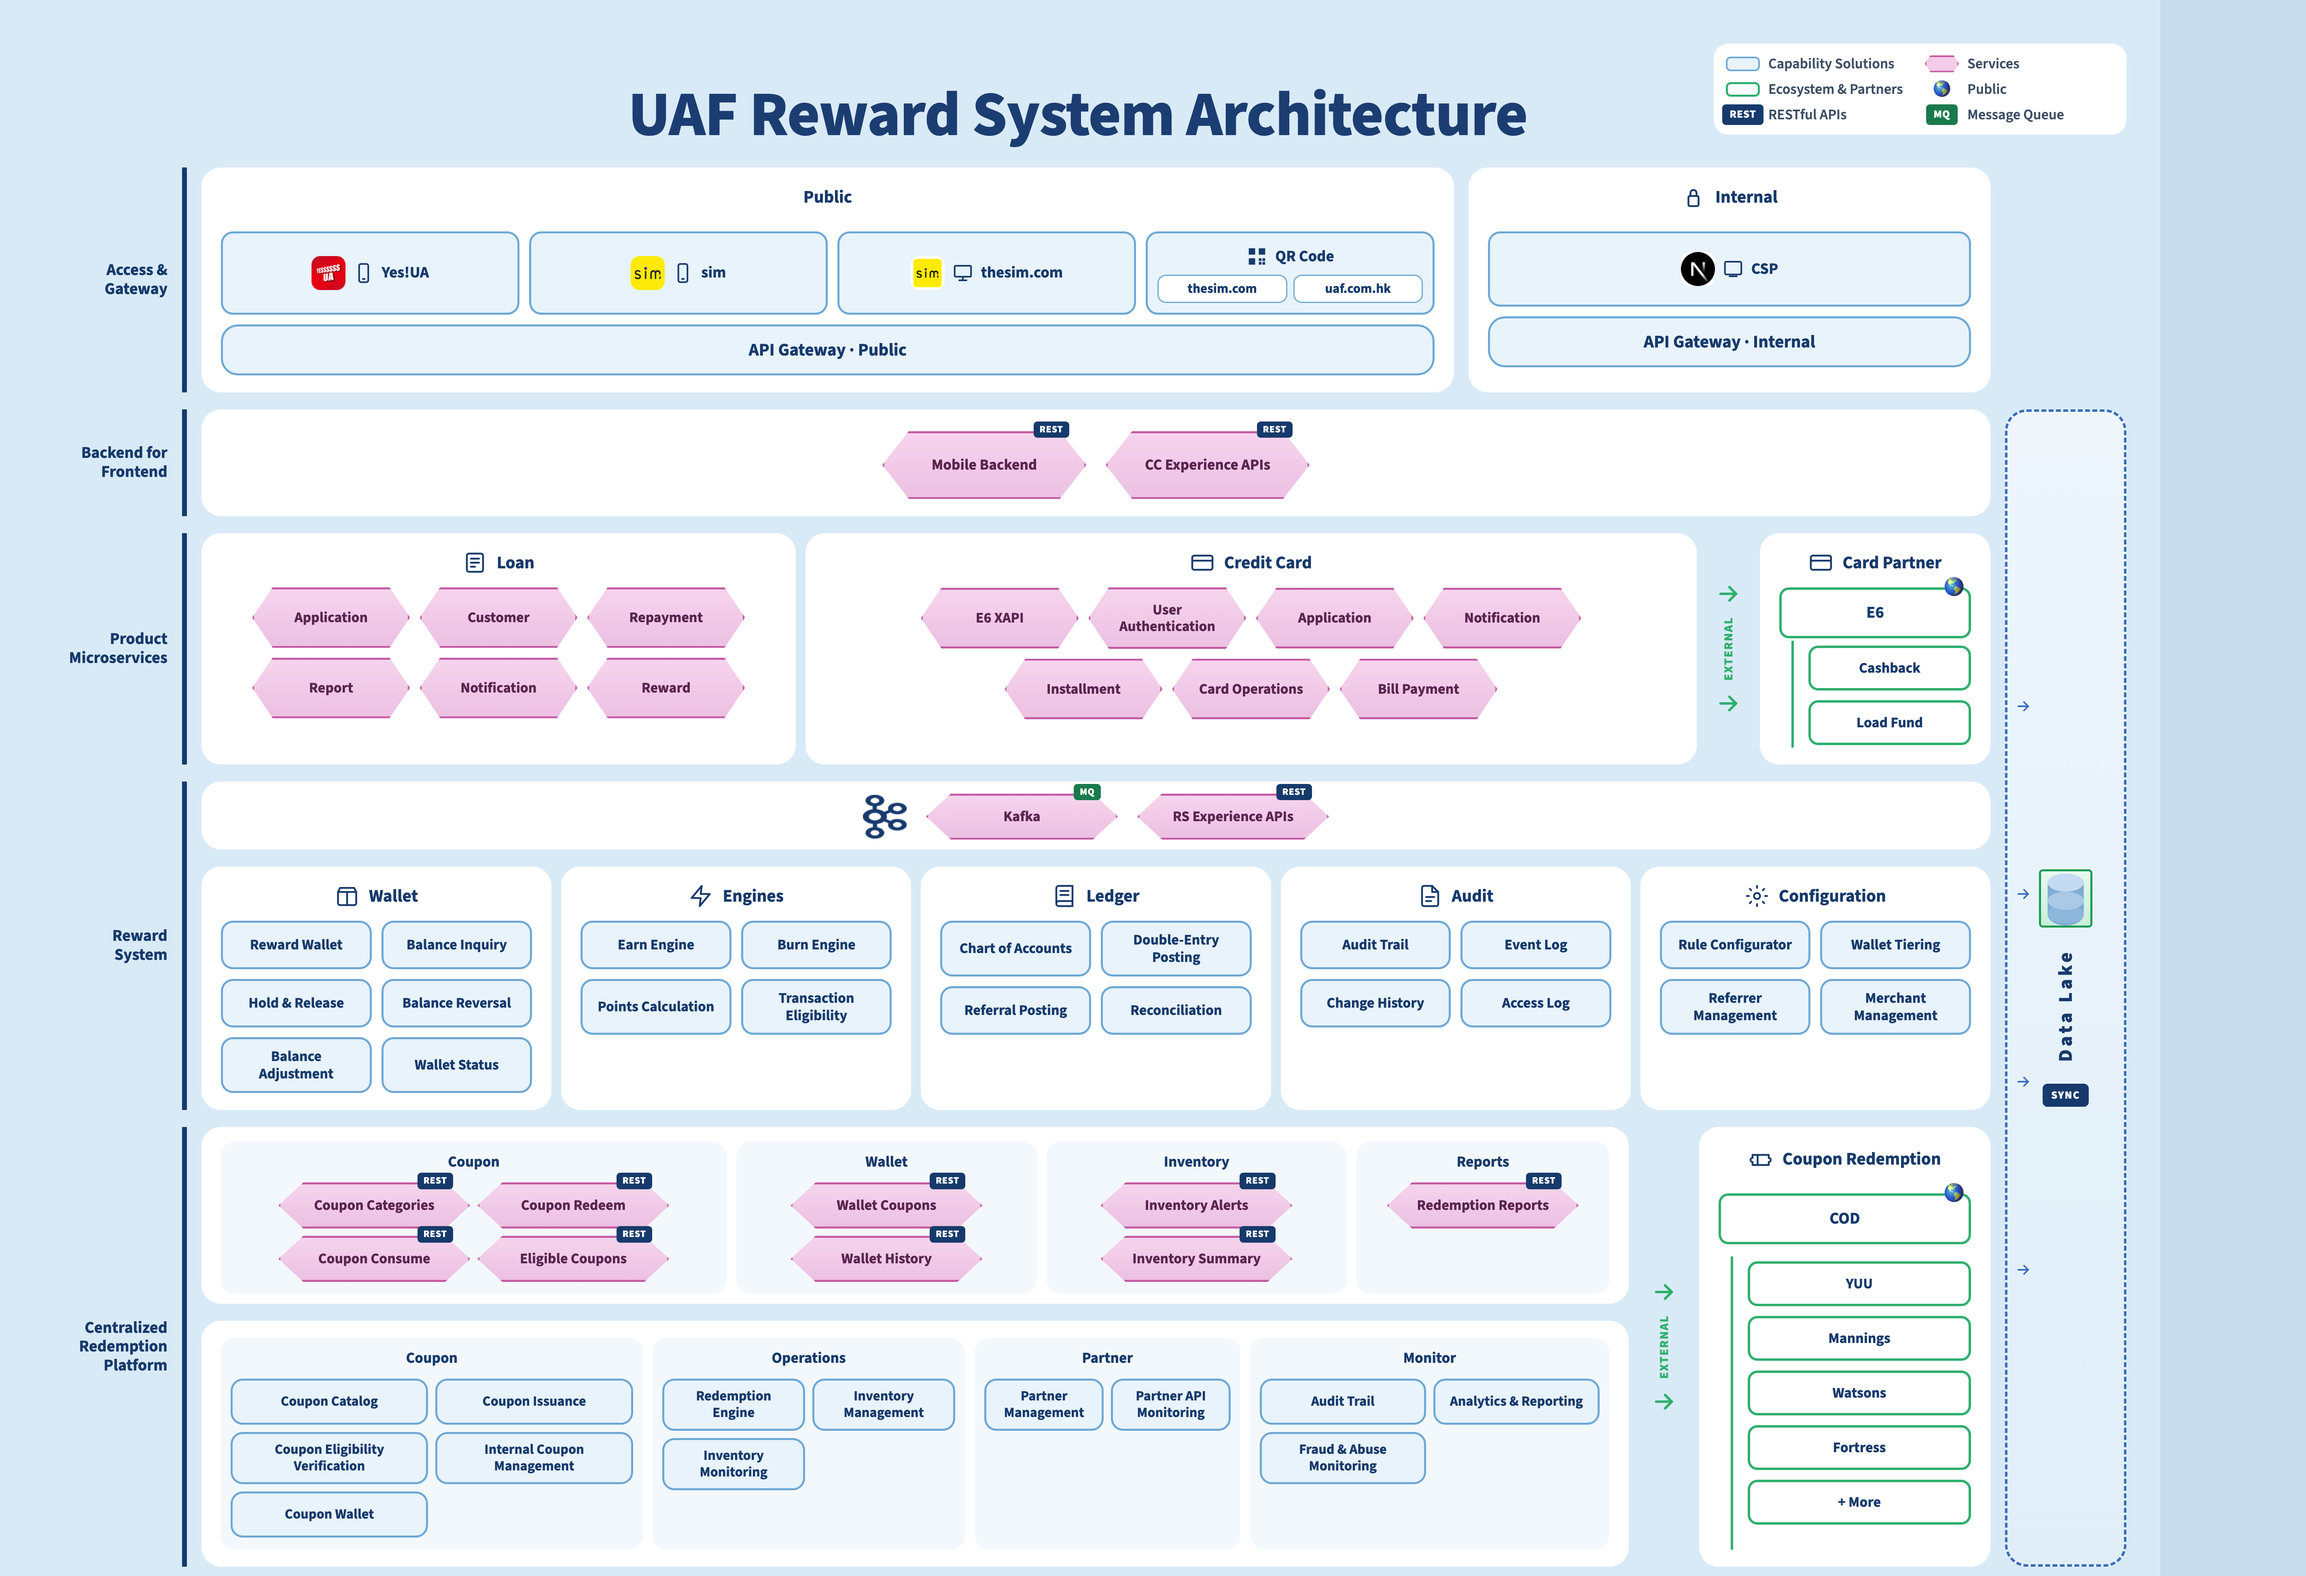
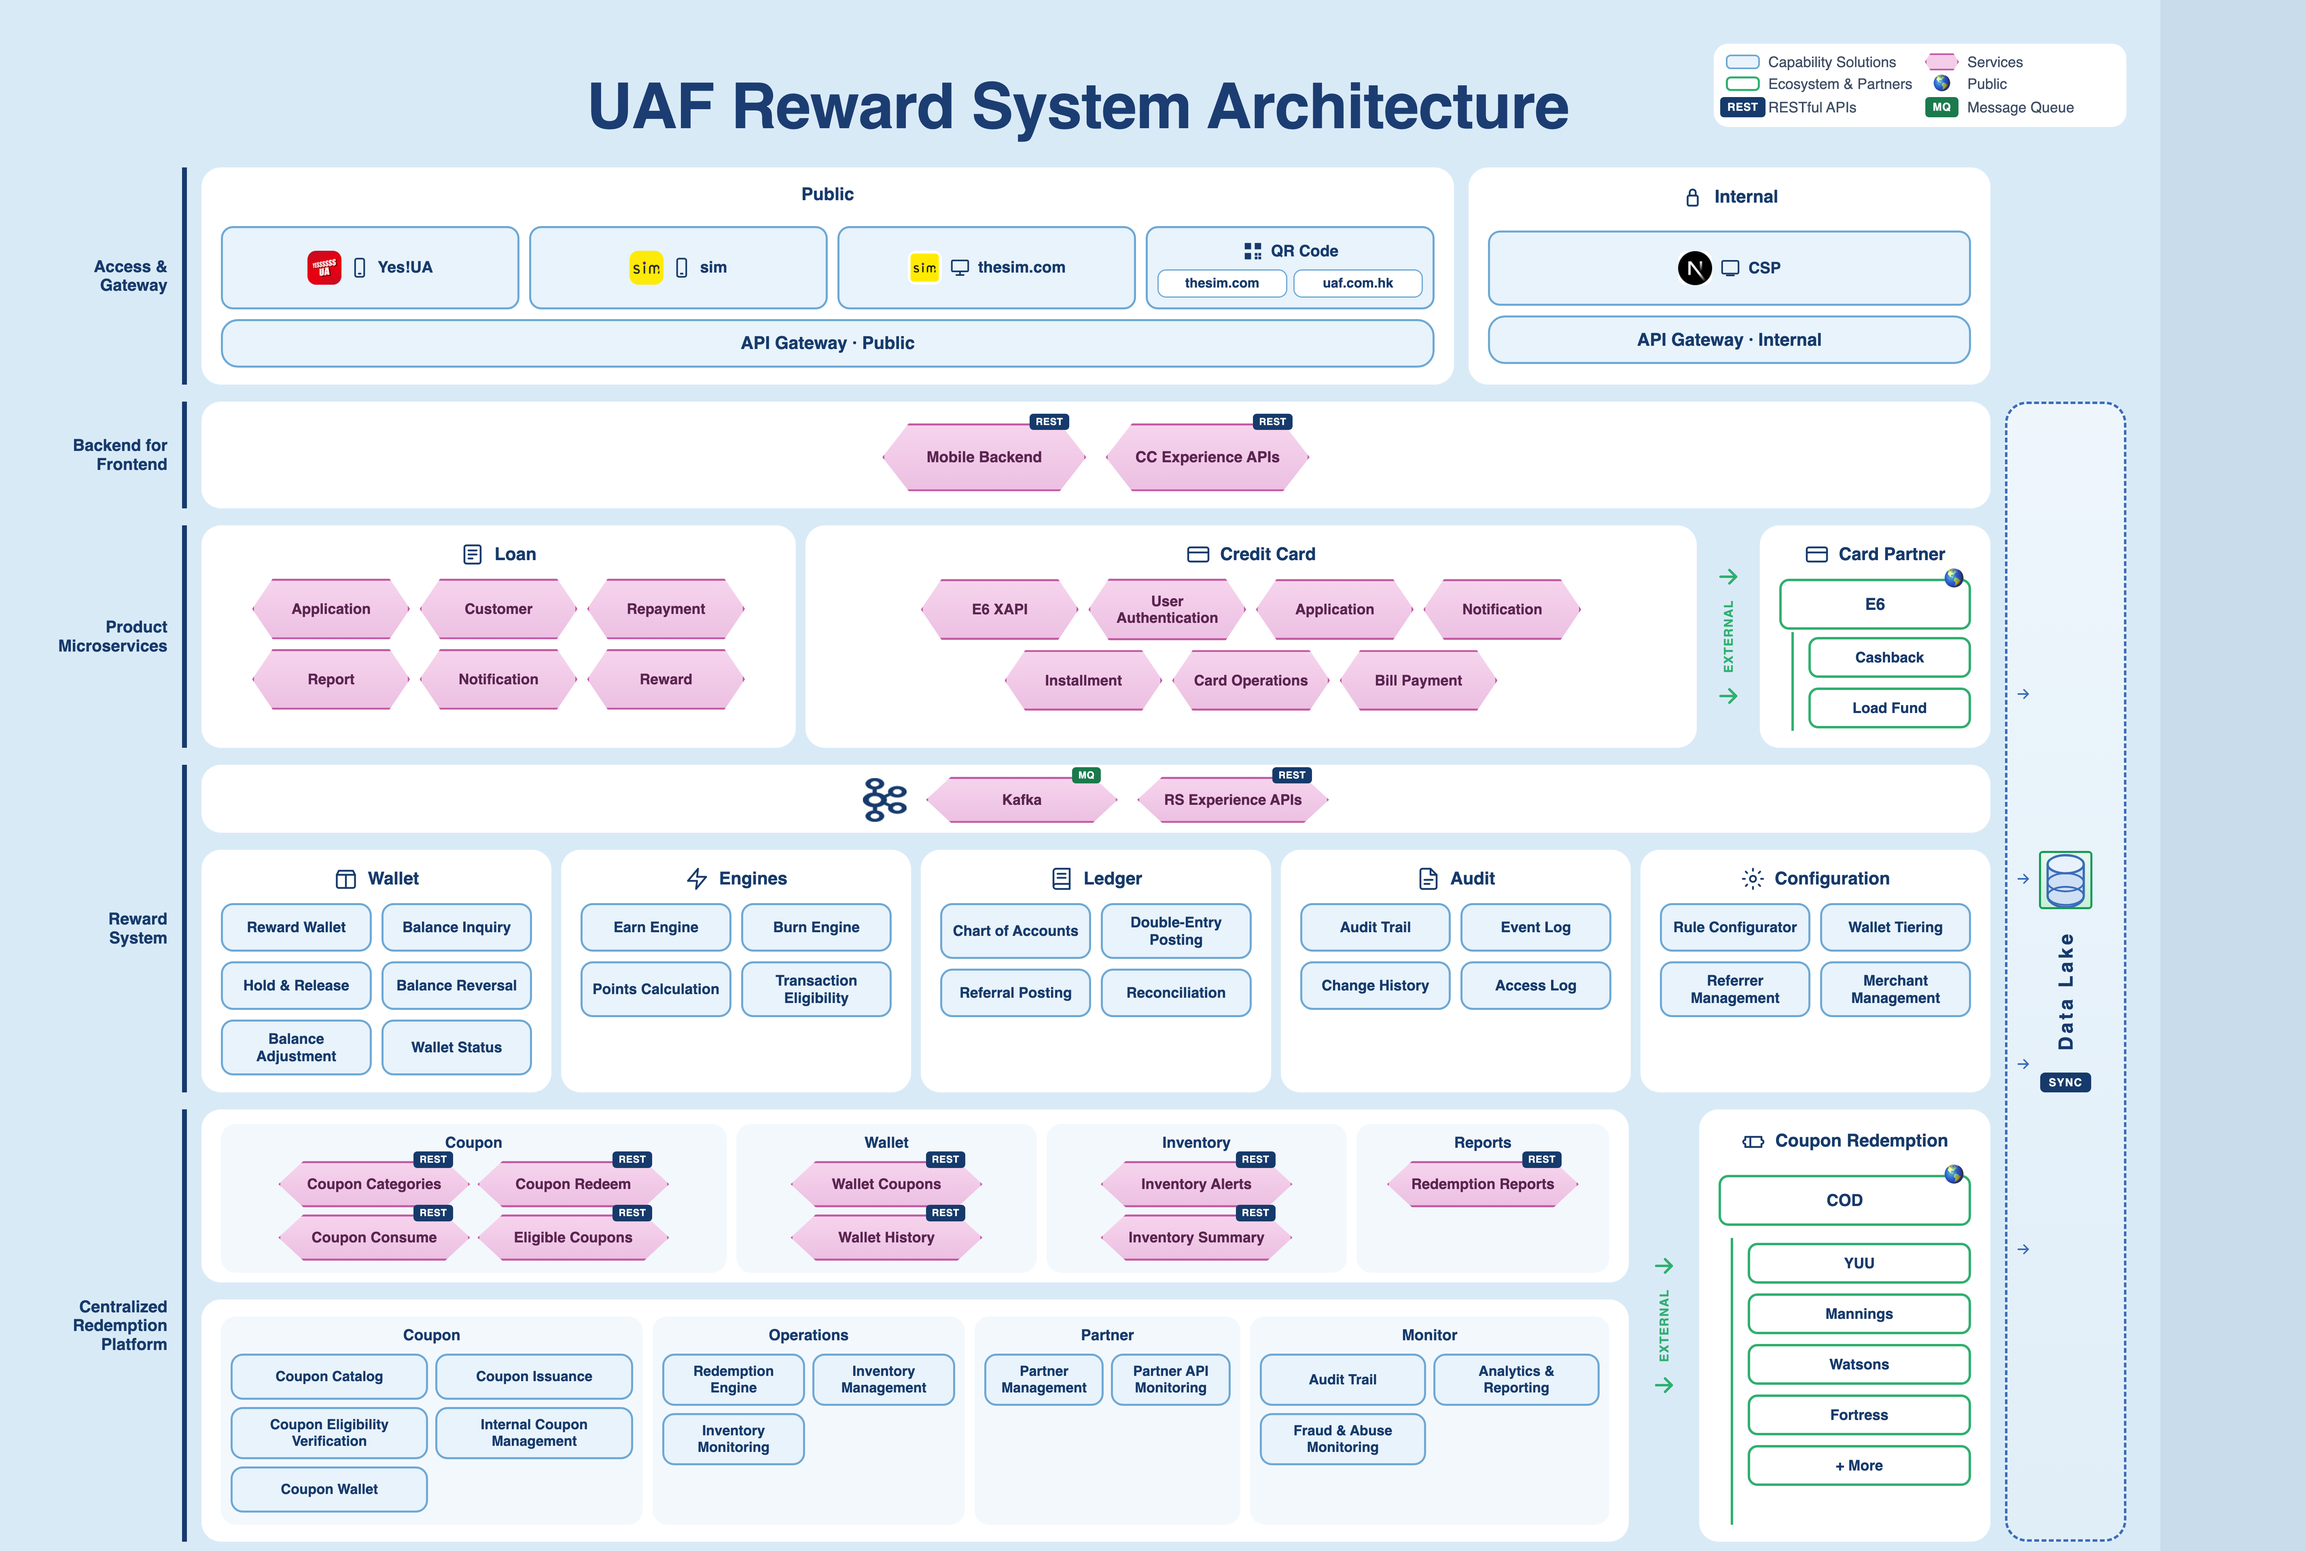
docs(decks): HD raster of Data Lake outlined-cylinder version

diff --git a/docs/decks/uaf-rewards-logical-architecture.html b/docs/decks/uaf-rewards-logical-architecture.html
@@ -424,10 +424,10 @@
         <svg viewBox="0 0 24 24"><path d="M5 12h14"/><path d="M13 6l6 6-6 6"/></svg>
       </div>
       <svg class="db" viewBox="0 0 40 48">
-        <path d="M4 10v28c0 5.5 7.2 10 16 10s16-4.5 16-10V10" fill="#7eacd6"/>
-        <ellipse cx="20" cy="38" rx="16" ry="8" fill="#8eb6db"/>
-        <ellipse cx="20" cy="26" rx="16" ry="8" fill="#a9c9e6"/>
-        <ellipse cx="20" cy="10" rx="16" ry="8" fill="#c5daf3"/>
+        <path d="M4 10v28c0 5.5 7.2 10 16 10s16-4.5 16-10V10" fill="#cfe0f4" stroke="#3a6cb8" stroke-width="2"/>
+        <ellipse cx="20" cy="38" rx="16" ry="8" fill="none" stroke="#3a6cb8" stroke-width="1.6"/>
+        <ellipse cx="20" cy="26" rx="16" ry="8" fill="none" stroke="#3a6cb8" stroke-width="1.6"/>
+        <ellipse cx="20" cy="10" rx="16" ry="8" fill="#e8f1fc" stroke="#3a6cb8" stroke-width="2"/>
       </svg>
       <b>Data Lake</b>
       <span class="sync">SYNC</span>
